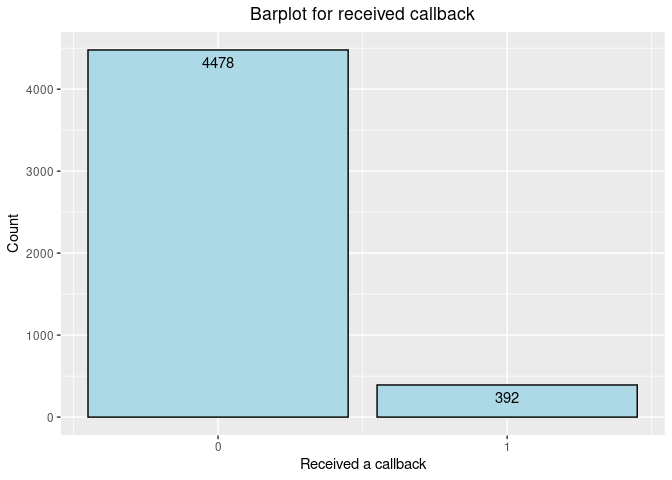
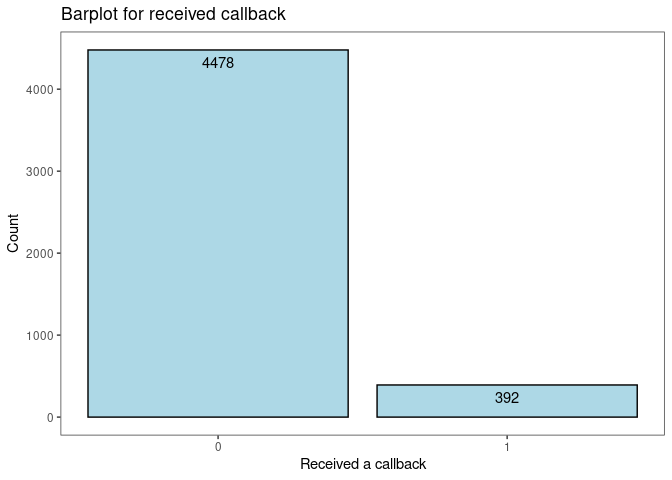
updatess

Changed region(s): [[0.0938, 0.0, 1.0, 0.0938]]

diff --git a/day01-simple-logistic/activity06.md b/day01-simple-logistic/activity06.md
@@ -41,7 +41,8 @@ plot1<-resume%>%ggplot(aes(x=received_callback))+
   labs(title = "Barplot for received callback",
        x="Received a callback",
        y="Count")+
-  theme(plot.title = element_text(hjust = 0.5))
+  theme(plot.title = element_text(hjust = 0.5))+
+  theme_test()
 
 plot1
 ```
@@ -106,10 +107,10 @@ plot2
 ## Task 5: Logistic regression
 
 8.  The probability that a randomly selected résumé/person perceived as
-    Black will be called back is **0.032**
+    Black will be called back is **0.064**
 
 9.  The odds that a randomly selected résumé/person perceived as Black
-    will be called back is **0.033**
+    will be called back is **0.069**
 
 ``` r
 # The {tidymodels} method for logistic regression requires that the response be a factor variable
@@ -134,7 +135,7 @@ tidy(resume_mod) %>%
 $$
  \begin{aligned}
 \widehat{\texttt{received\\_callback}}&= \hat{\beta}_0 + \hat{\beta}_1 \times \texttt{race}\\
-&= -2.675 + 0.438   \times \text{race}
+&= -2.67 + 0.44 \times \text{race}
 \end{aligned}
 $$
 
@@ -143,10 +144,35 @@ levels, R has created a dummy variable for race in the model. So if the
 applicant is perceived as “Black” then race is “0” and if the applicant
 is perceived it as “white” then race is “1”.
 
+11. The simplified estimated regression equation corresponding to
+    résumés/persons perceived as Black.
+
 $$
  \begin{aligned}
-\widehat{\texttt{received\\_callback}}&= -2.675 + 0.438 \times \text{race} \\
+\widehat{\texttt{received\\_callback}}&= -2.67 + 0.44   \times \text{race} \\
 &= 2.675 + 0.438(0) \\
-\widehat{\texttt{received\\_callback}}&= -2.675
+\widehat{\texttt{received\\_callback}}&= -2.67
 \end{aligned}
 $$
+
+``` r
+# To caluculate odds of logistic regression model
+odds <- exp(-2.67)
+probability<- odds/(1+odds)
+log_odds<-log(odds)
+
+probability<-round(probability,digits=3)
+odds<- round(odds,digits = 3)
+```
+
+12. If a randomly selected résumé/person perceived as Black, the log
+    odds that they will be called back is **-2.67**
+
+13. If a randomly selected résumé/person perceived as Black, the odds
+    that they will be called back is **0.069**, this was the same value
+    that I obtained in question 9. We can back transform a log odds
+    value by using **exp()** function to obtain odds value.
+
+14. If a randomly selected résumé/person perceived as Black, the
+    probability that they will be called back is **0.065**, this was the
+    same value that I obtained in question 8.
